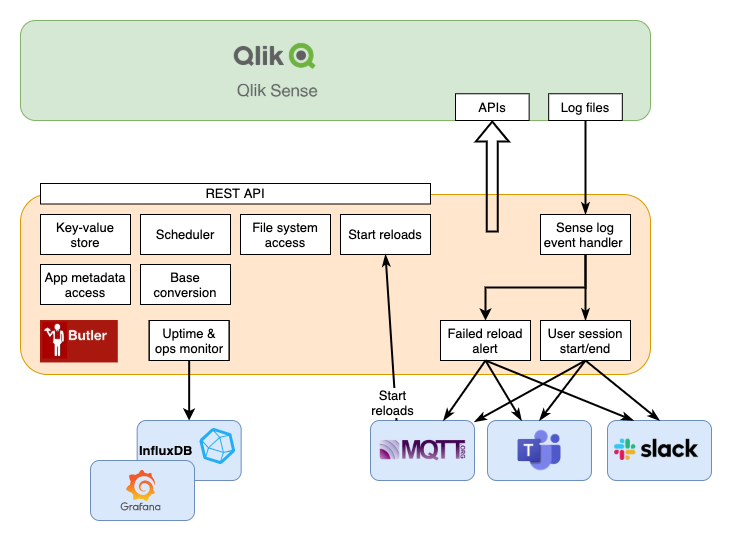
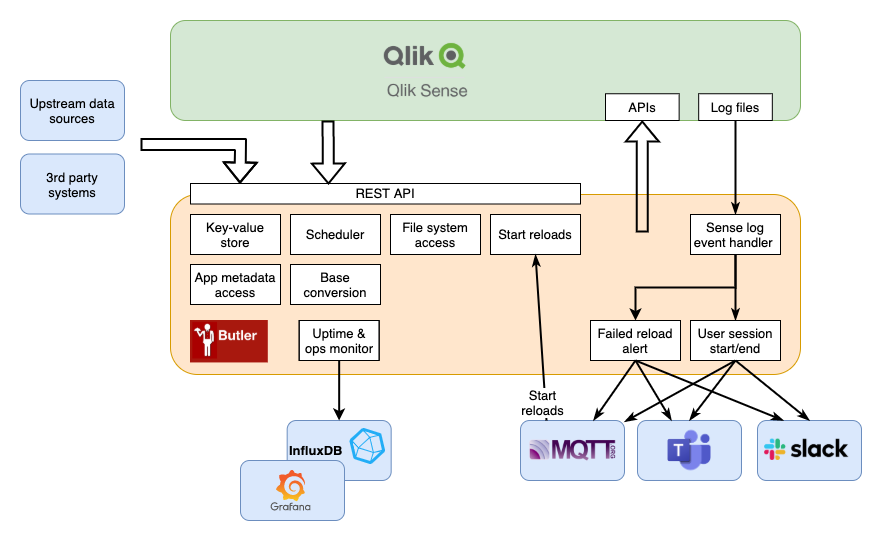
Updated system overview img

Changed region(s): [[0.0, 0.0296, 0.9918, 0.976], [0.3005, 0.0591, 0.541, 0.1774]]

diff --git a/docs/docs/about/butler/index.html b/docs/docs/about/butler/index.html
@@ -24,10 +24,10 @@
 <meta property="og:description" content="An introduction to Butler." />
 <meta property="og:type" content="article" />
 <meta property="og:url" content="/docs/about/butler/" />
-<meta property="article:modified_time" content="2020-10-19T22:41:44+02:00" /><meta property="og:site_name" content="Butler" />
+<meta property="article:modified_time" content="2020-10-22T09:17:24+02:00" /><meta property="og:site_name" content="Butler" />
 <meta itemprop="name" content="Butler">
 <meta itemprop="description" content="An introduction to Butler.">
-<meta itemprop="dateModified" content="2020-10-19T22:41:44+02:00" />
+<meta itemprop="dateModified" content="2020-10-22T09:17:24+02:00" />
 <meta itemprop="wordCount" content="220">
 
 
@@ -1030,7 +1030,7 @@ You can run Butler on the same server as Qlik Sense, in a Docker container on a 
 		<br />
 	
 	
-	<div class="text-muted mt-5 pt-3 border-top">Last modified 2020-10-19: <a  href="https://github.com/ptarmiganlabs/butler-docs/commit/9bf410165e4a242948ec6a1c58ce25d488db64a1">WIP towards 4.0 release (9bf4101)</a>
+	<div class="text-muted mt-5 pt-3 border-top">Last modified 2020-10-22: <a  href="https://github.com/ptarmiganlabs/butler-docs/commit/37e8d2a1b590ecf89f0bdadeab503293a6aac9fe">Added system overview pic to about page (37e8d2a)</a>
 </div>
 </div>
 
